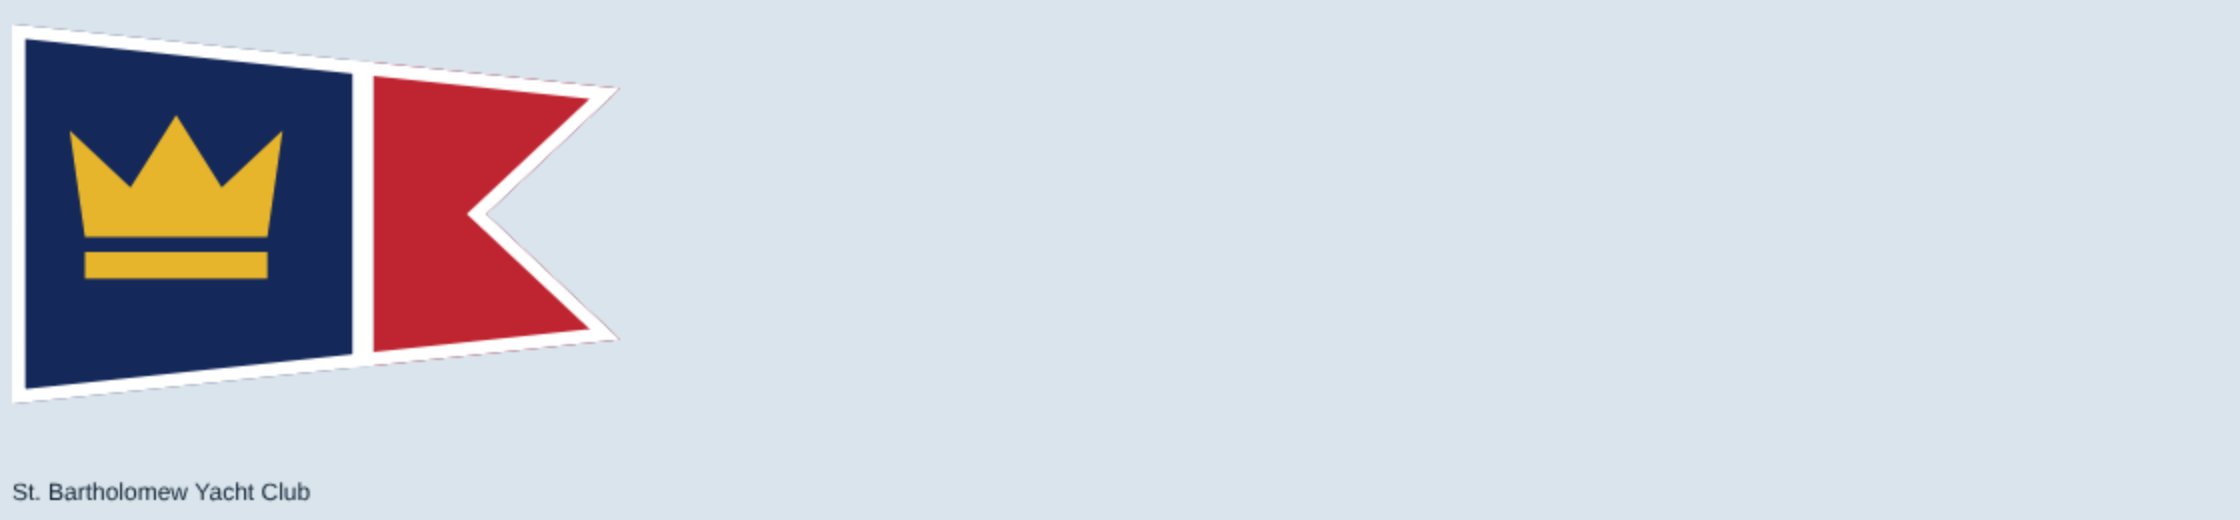
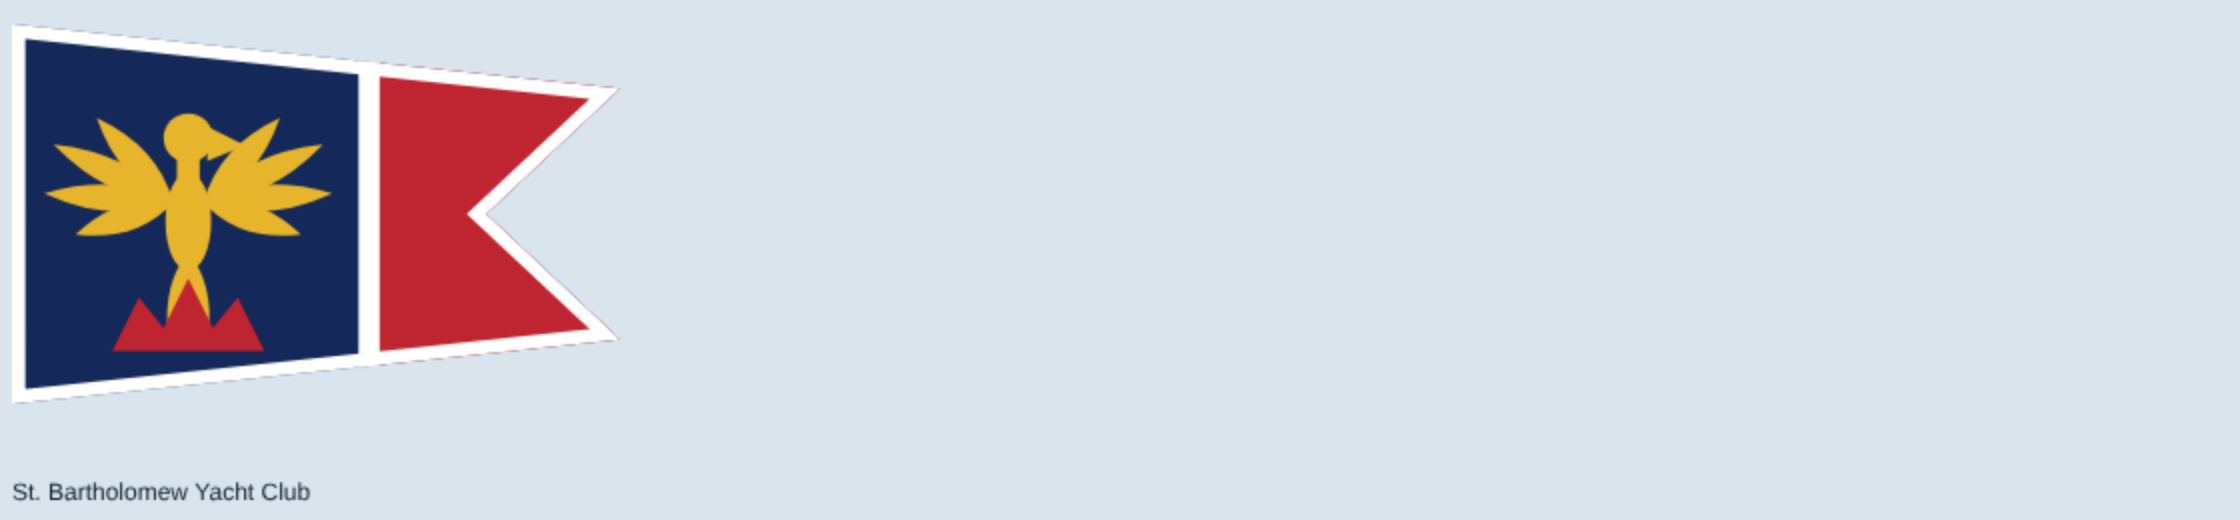
Burgees: St. Bartholomew carries a phoenix rising from flames, San Francisco's emblem, in place of the crown
Claude-Session: https://claude.ai/code/session_012Uu5QjYRsEpBxuz7xgHWhs

Changed region(s): [[0.0, 0.1538, 0.1875, 0.6769]]

diff --git a/src/render/burgeeArt.ts b/src/render/burgeeArt.ts
@@ -20,16 +20,22 @@ const stroke = (g: G, c: string, w: number, ...p: P[]) => { g.strokeStyle = c; g
 const arc = (g: G, c: string, w: number, x: number, y: number, r: number, a0: number, a1: number) => { g.strokeStyle = c; g.lineWidth = w; g.lineCap = 'butt'; g.beginPath(); g.arc(x, y, r, a0, a1); g.stroke(); };
 const half = (g: G, W: number, H: number, a: string, b: string) => { rect(g, a, 0, 0, W, H / 2); rect(g, b, 0, H / 2, W, H / 2); };
 
+/** One feather: a long teardrop from (x, y) out along `ang`, `len` long and `wid` across. */
+const feather = (g: G, c: string, x: number, y: number, ang: number, len: number, wid: number) => { g.save(); g.translate(x, y); g.rotate(ang); g.fillStyle = c; g.beginPath(); g.moveTo(0, 0); g.quadraticCurveTo(len * 0.45, -wid, len, 0); g.quadraticCurveTo(len * 0.45, wid, 0, 0); g.fill(); g.restore(); };
 /** A border just inside the cut (a fimbriation, as classic burgees have): d is its width as a share of the hoist. */
 const border = (g: G, W: number, H: number, shape: 'pennant' | 'swallow', c: string, d: number) => { burgeePath(g, W, H, shape); g.strokeStyle = c; g.lineWidth = H * d * 2; g.lineJoin = 'miter'; g.stroke(); };
 
 export const PARODY_BURGEES: Burgee[] = [
   // ---- Tier 1 · San Francisco city front
-  { id: 'stfyc', shape: 'swallow', ratio: 1.6, // classic, prestige: very dark blue and red, divided per pale, a white fimbriation, one gold crown
-    draw: (g, W, H) => { fill(g, W, H, NAVY); rect(g, WHITE, W * 0.56, 0, W * 0.035, H); rect(g, RED, W * 0.595, 0, W * 0.405, H);
-      const x = W * 0.27, y = H * 0.56;
-      poly(g, GOLD, [x - H * 0.24, y], [x - H * 0.28, y - H * 0.28], [x - H * 0.12, y - H * 0.13], [x, y - H * 0.32], [x + H * 0.12, y - H * 0.13], [x + H * 0.28, y - H * 0.28], [x + H * 0.24, y]);
-      rect(g, GOLD, x - H * 0.24, y + H * 0.04, H * 0.48, H * 0.07); border(g, W, H, 'swallow', WHITE, 0.035); } },
+  { id: 'stfyc', shape: 'swallow', ratio: 1.6, // classic, prestige: very dark blue and red per pale, a white fimbriation; one gold phoenix, the city's own emblem, rising from red flames
+    draw: (g, W, H) => { fill(g, W, H, NAVY); rect(g, WHITE, W * 0.57, 0, W * 0.035, H); rect(g, RED, W * 0.605, 0, W * 0.395, H);
+      const x = W * 0.29, y = H * 0.5, u = H, d = Math.PI / 180;
+      for (const s of [-1, 1]) for (const [a, l] of [[-48, 0.3], [-26, 0.35], [-4, 0.34], [18, 0.27]] as P[]) feather(g, GOLD, x + s * u * 0.04, y - u * 0.03, s > 0 ? a * d : Math.PI - a * d, u * l, u * 0.07); // the wings, four feathers fanned up
+      oval(g, GOLD, x, y + u * 0.02, u * 0.06, u * 0.13); // the body
+      rect(g, GOLD, x - u * 0.03, y - u * 0.16, u * 0.06, u * 0.12); dot(g, GOLD, x, y - u * 0.2, u * 0.065); poly(g, GOLD, [x + u * 0.05, y - u * 0.23], [x + u * 0.15, y - u * 0.18], [x + u * 0.05, y - u * 0.14]); // the head, the beak
+      for (const a of [76, 90, 104]) feather(g, GOLD, x, y + u * 0.1, a * d, u * 0.22, u * 0.045); // the tail
+      poly(g, RED, [x - u * 0.2, y + u * 0.36], [x - u * 0.13, y + u * 0.22], [x - u * 0.065, y + u * 0.3], [x, y + u * 0.17], [x + u * 0.065, y + u * 0.3], [x + u * 0.13, y + u * 0.22], [x + u * 0.2, y + u * 0.36]); // rising from the flames
+      border(g, W, H, 'swallow', WHITE, 0.035); } },
   { id: 'ggyc', shape: 'pennant', ratio: 1.67, // scrappy: blue and gold, one leaping dorado
     draw: (g, W, H) => { fill(g, W, H, BLUE); g.save(); g.translate(W * 0.22, H * 0.5); g.rotate(-0.45); oval(g, GOLD, 0, 0, W * 0.14, H * 0.17); poly(g, GOLD, [W * 0.1, 0], [W * 0.2, -H * 0.16], [W * 0.2, H * 0.16]); g.restore(); } },
   { id: 'sbyc', shape: 'pennant', ratio: 1.6, // modern urban: harbor blue and orange, one bridge span
